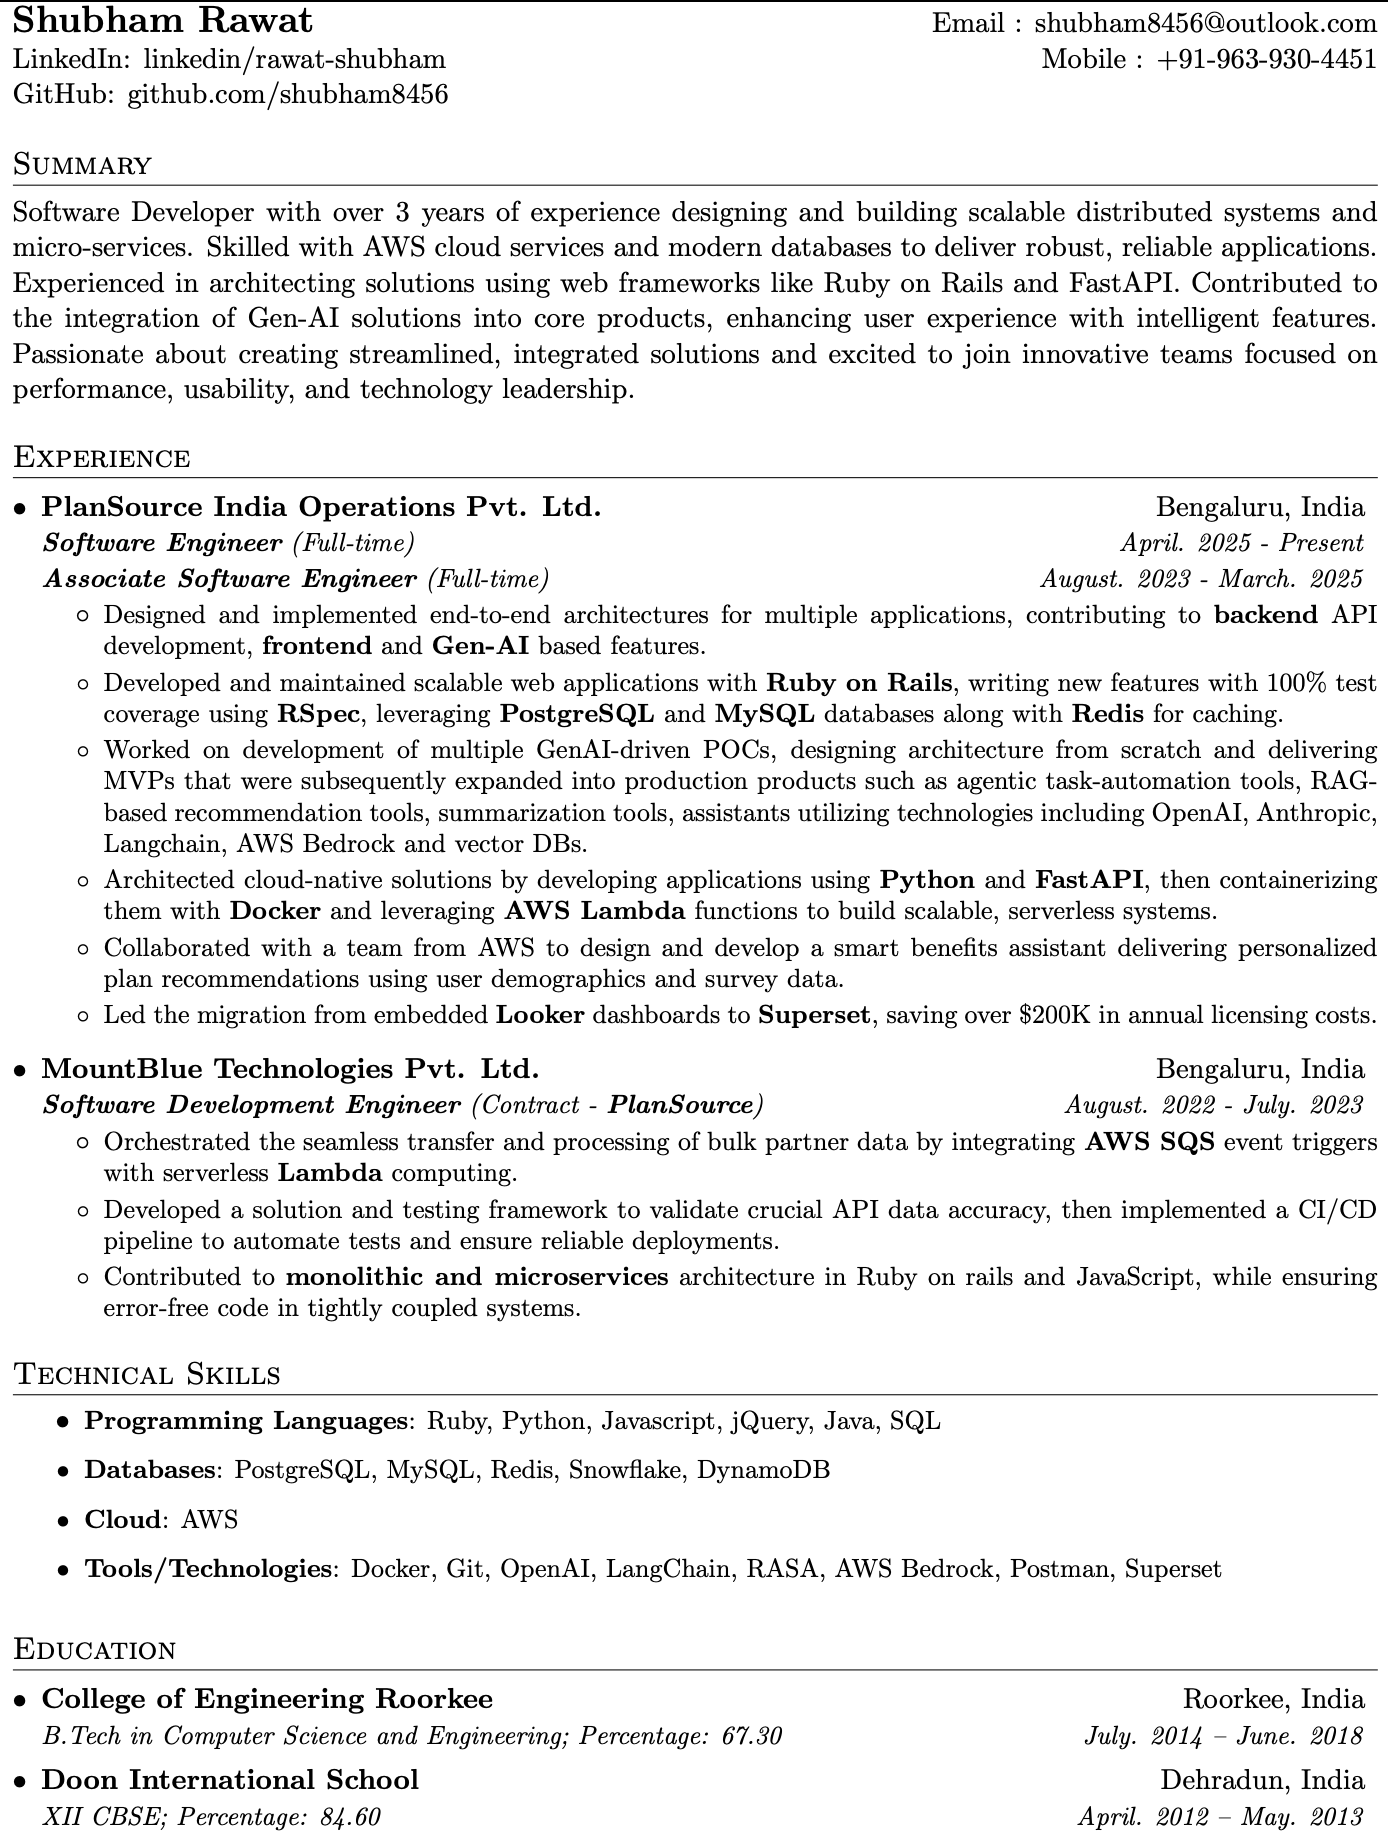
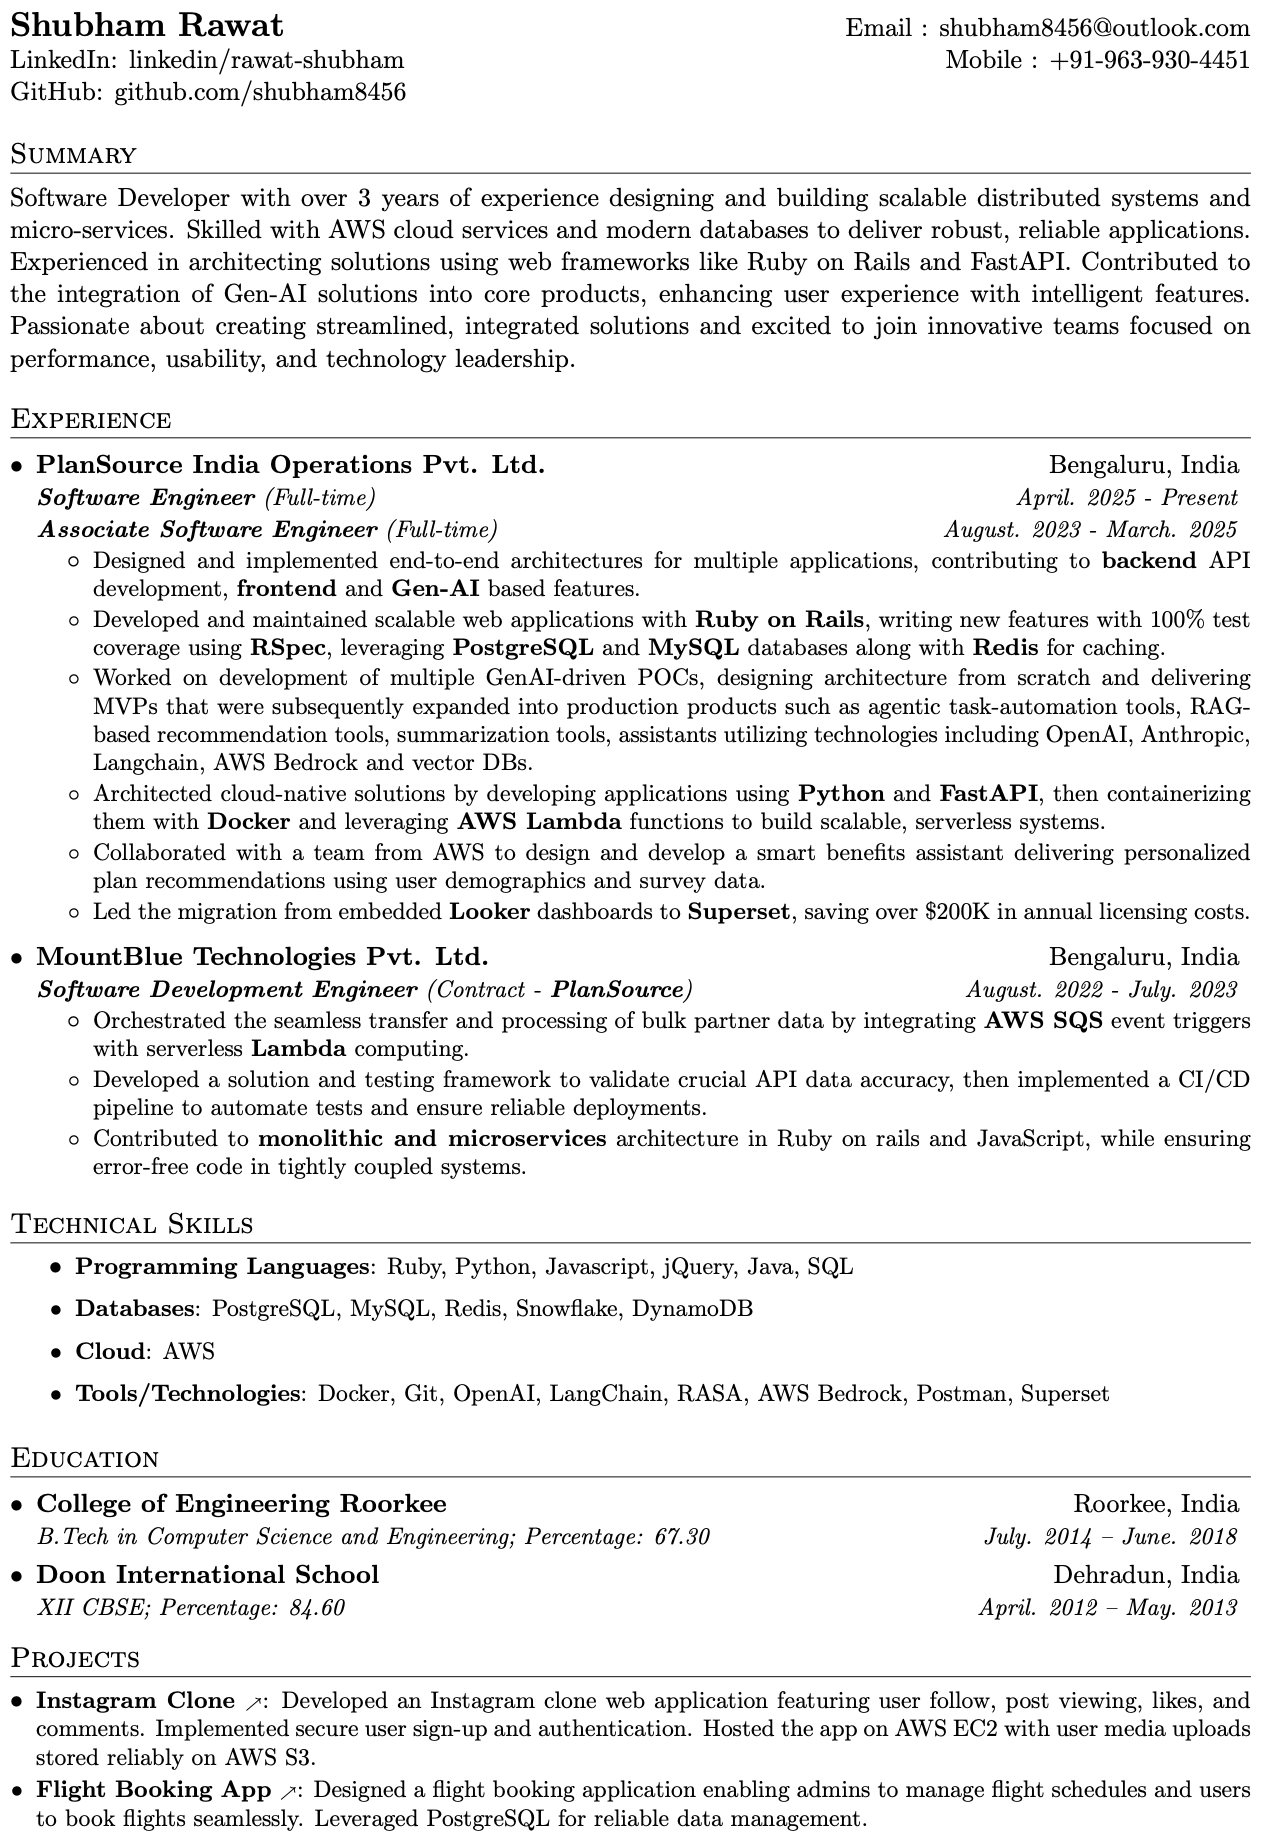
added basic projects

Changed region(s): [[0.0, 0.0, 1.0, 1.0], [0.649, 0.0, 0.9889, 0.0621]]

diff --git a/shubham_rawat_resume.tex b/shubham_rawat_resume.tex
@@ -14,6 +14,8 @@
 \usepackage[english]{babel}
 \usepackage{tabularx}
 \usepackage{ragged2e} % Enables \justify
+\usepackage{xcolor}
+
 \input{glyphtounicode}
 
 \pagestyle{fancy}
@@ -21,6 +23,7 @@
 \fancyfoot{}
 \renewcommand{\headrulewidth}{0pt}
 \renewcommand{\footrulewidth}{0pt}
+\newcommand{\linkicon}{{\color{black}\tiny$\nearrow$}} % small blue arrow as link icon
 
 % Adjust margins
 \addtolength{\oddsidemargin}{-0.5in}
@@ -194,15 +197,13 @@
 
 
 %------------------------------------------------------------------------------PROJECTS------------------------------------------------------------------------------
-% \section{Projects}
-%   \resumeSubHeadingListStart
-%     \resumeSubItem{Instagram Clone}
-%       {Created an Instagram clone web-app with features to follow users, view posts, like, and comment. Hosted on AWS EC2 with user uploads stored on AWS S3. Enabled user sign-up and authorization for social media use.}
-%     \resumeSubItem{Flight Booking web-app}
-%       {Built a flight booking app where admins create flight schedules and users book flights. Utilized PostgreSQL for data storage.}
-%     \resumeSubItem{Fundraiser website front-end}
-%       {Designed a fundraiser website to practice front-end skills, showcasing global campaigns and seeking donations for helping the needy.}
-%   \resumeSubHeadingListEnd
+\section{Projects}
+  \resumeSubHeadingListStart
+    \resumeSubItem{\href{https://github.com/shubham8456/insta-clone}{Instagram Clone \linkicon}}
+    {Developed an Instagram clone web application featuring user follow, post viewing, likes, and comments. Implemented secure user sign-up and authentication. Hosted the app on AWS EC2 with user media uploads stored reliably on AWS S3.}
+    \resumeSubItem{\href{https://github.com/shubham8456/flight_booking_app}{Flight Booking App \linkicon}}
+    {Designed a flight booking application enabling admins to manage flight schedules and users to book flights seamlessly. Leveraged PostgreSQL for reliable data management.}
+  \resumeSubHeadingListEnd
 %-------------------------------------------------------------------------------------------------------------------------------------------------------------------
 
 \end{document}
